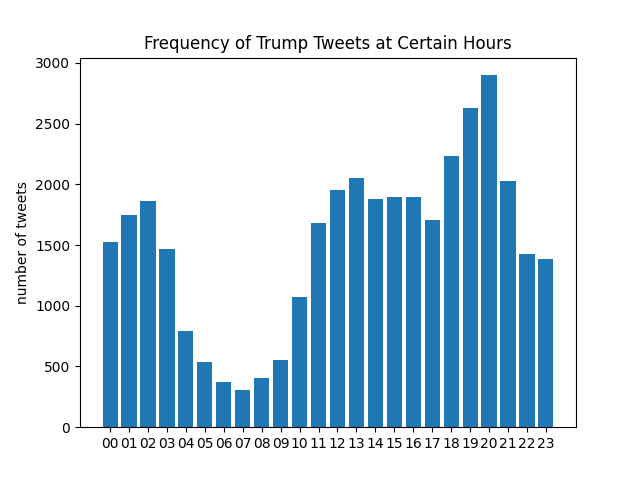
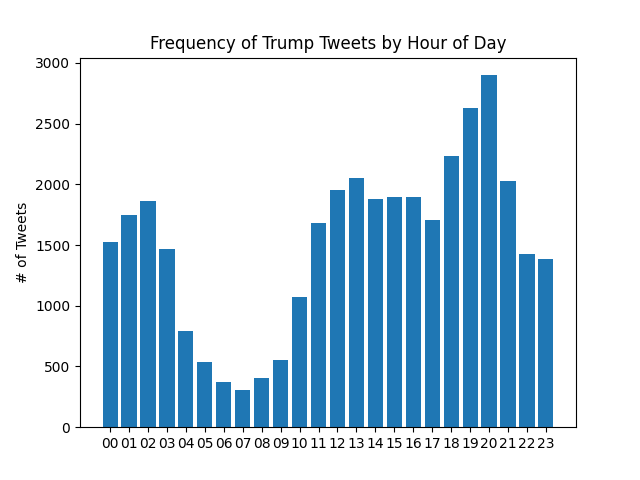
extra credit

Changed region(s): [[0.2188, 0.0625, 0.8125, 0.125], [0.0, 0.375, 0.0625, 0.625]]

diff --git a/lab_tweets.py b/lab_tweets.py
@@ -157,6 +157,7 @@ There are two extra credit opportunities for this lab, worth one point each.
     If you add this to your repo you will get +1 point.
 '''
 
+
 from datetime import datetime
 import glob
 import json
@@ -176,11 +177,6 @@ for zip_path in zip_files:
         with z.open(file_name) as f:
             tweets = json.load(f)
             all_tweets.extend(tweets)
-
-# # Extra credit: Using the latest version of the data
-# with open('tweets_01-08-2021.json', "r") as f:
-#     tweets = json.load(f)
-#     all_tweets.extend(tweets)
 
 counts = {
     "trump": 0,
@@ -213,10 +209,11 @@ for tweet in all_tweets:
 sorted_time_freq = dict(sorted(time_freq.items()))
 print("sorted_time_freq=", sorted_time_freq)
 
-print("len(tweets)=", len(all_tweets))
+print("len(all_tweets)=", len(all_tweets))
 print("counts=", counts)
+
 total = len(all_tweets)
-print("\nPercentages:")
+print("\nPercentages1:")
 for word, count in counts.items():
     percent = (count / total) * 100
     print(f"{word}: {percent:.2f}%")
@@ -229,15 +226,85 @@ for word, count in counts.items():
     print("| {:<10} | {:>6} | {:>9.2f}% |".format(word, count, percent))
 
 percentages = {w: (c / total) * 100 for w, c in counts.items()}
+print()
 
+# all_tweets charts
 plt.bar(percentages.keys(), percentages.values())
 plt.ylabel("% of Tweets")
-plt.title("Trump Tweet Keyword Frequency")
-plt.savefig("tweet_keyword_frequency.png")
+plt.title("Frequency of Keywords in Trump Tweets")
+plt.savefig("tweet_keyword_frequency1.png")
 plt.show()
 
 plt.bar(sorted_time_freq.keys(), sorted_time_freq.values())
-plt.ylabel("number of tweets")
-plt.title("Frequency of Trump Tweets at Certain Hours")
+plt.ylabel("# of Tweets")
+plt.title("Frequency of Trump Tweets by Hour of Day")
 plt.savefig("tweet_time_frequency.png")
+plt.show()
+
+
+# Extra credit: Using the latest version of the data
+latest_tweets = []
+with open('tweets_01-08-2021.json', "r") as f:
+    tweets = json.load(f)
+    latest_tweets.extend(tweets)
+
+counts2 = {
+    "trump": 0,
+    "obama": 0,
+    "mexico": 0,
+    "russia": 0,
+    "fake news": 0,
+    "china": 0,
+    "win": 0,
+    "vote": 0,
+}
+
+time_freq2 = {}
+for tweet in latest_tweets:
+    if 'date' in tweet:
+        raw_time = tweet['date']
+        hour = raw_time[11:13] 
+
+        if hour in time_freq2:
+            time_freq2[hour] += 1
+        else:
+            time_freq2[hour] = 1
+
+    text = tweet["text"].lower()
+
+    for word in counts2:
+        if word in text:
+            counts2[word] += 1
+
+sorted_time_freq2 = dict(sorted(time_freq2.items()))
+print("sorted_time_freq2=", sorted_time_freq2)
+print('len(latest_tweets)=', len(latest_tweets))
+print("counts2=", counts2)
+
+total2 = len(latest_tweets)
+print("\nPercentages2:")
+for word, count in counts2.items():
+    percent = (count / total) * 100
+    print(f"{word}: {percent:.2f}%")
+
+print("| {:<10} | {:>6} | {:>10} |".format("Keyword", "Count2", "Percentage2"))
+print("|------------|--------|------------|")
+
+for word, count in counts2.items():
+    percent = (count / total) * 100
+    print("| {:<10} | {:>6} | {:>9.2f}% |".format(word, count, percent))
+
+percentages2 = {w: (c / total) * 100 for w, c in counts2.items()}
+
+# latest_tweets charts
+plt.bar(percentages2.keys(), percentages2.values())
+plt.ylabel("% of Tweets")
+plt.title("Frequency of Keywords in Trump Tweets (Latest)")
+plt.savefig("latest_tweet_keyword_frequency.png")
+plt.show()
+
+plt.bar(sorted_time_freq2.keys(), sorted_time_freq2.values())
+plt.ylabel("# of Tweets")
+plt.title("Frequency of Trump Tweets by Hour of Day (Latest)")
+plt.savefig("latest_tweet_time_frequency.png")
 plt.show()
